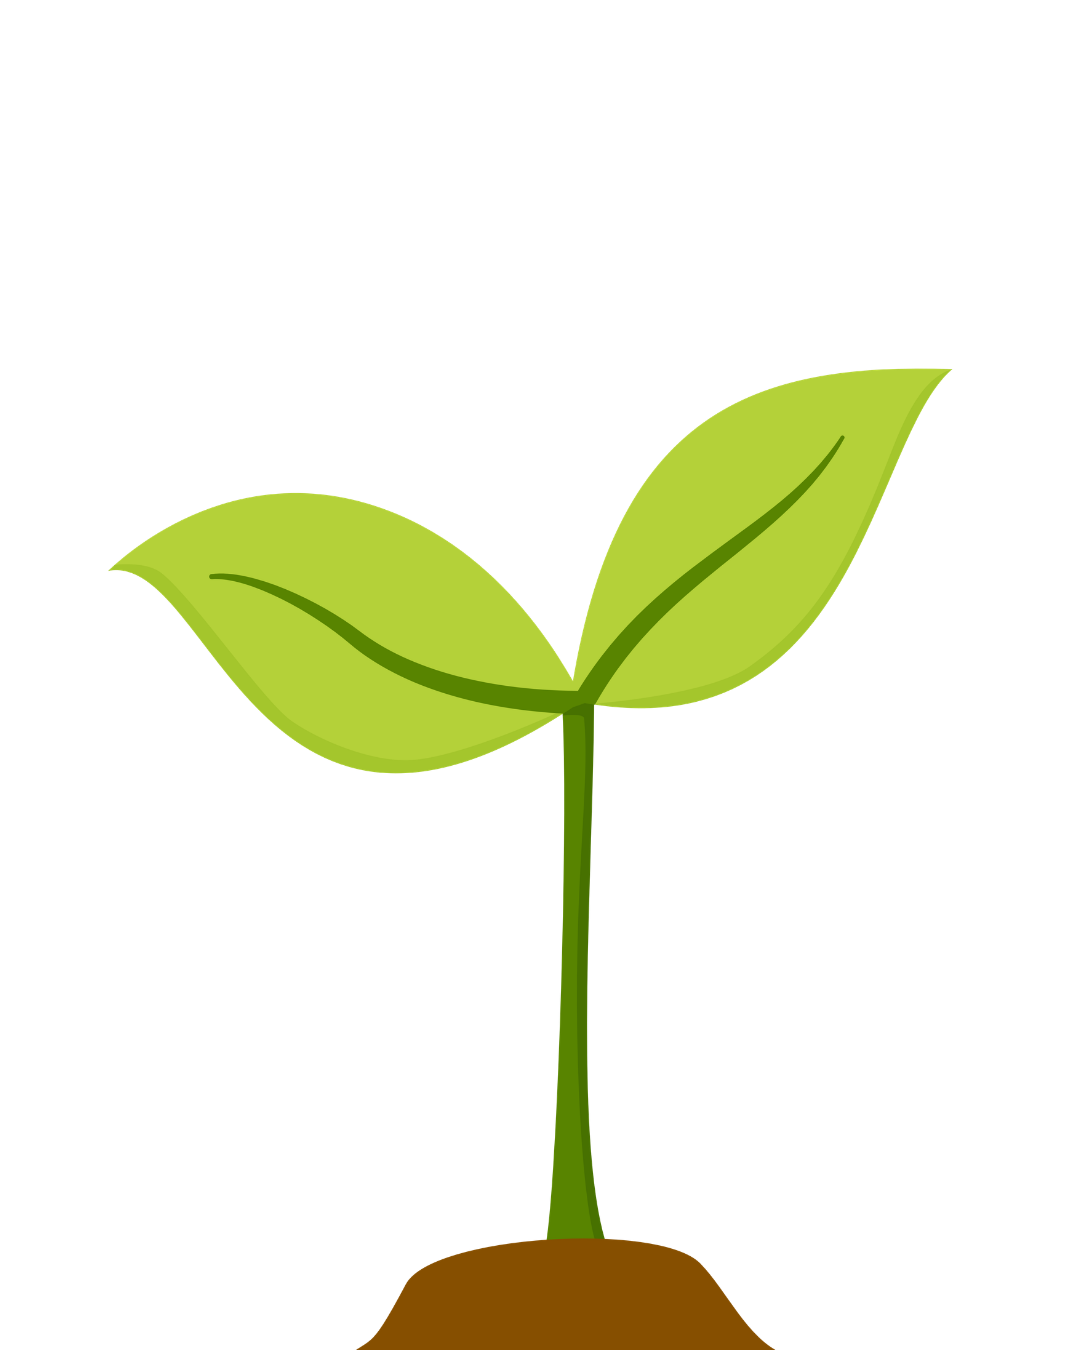
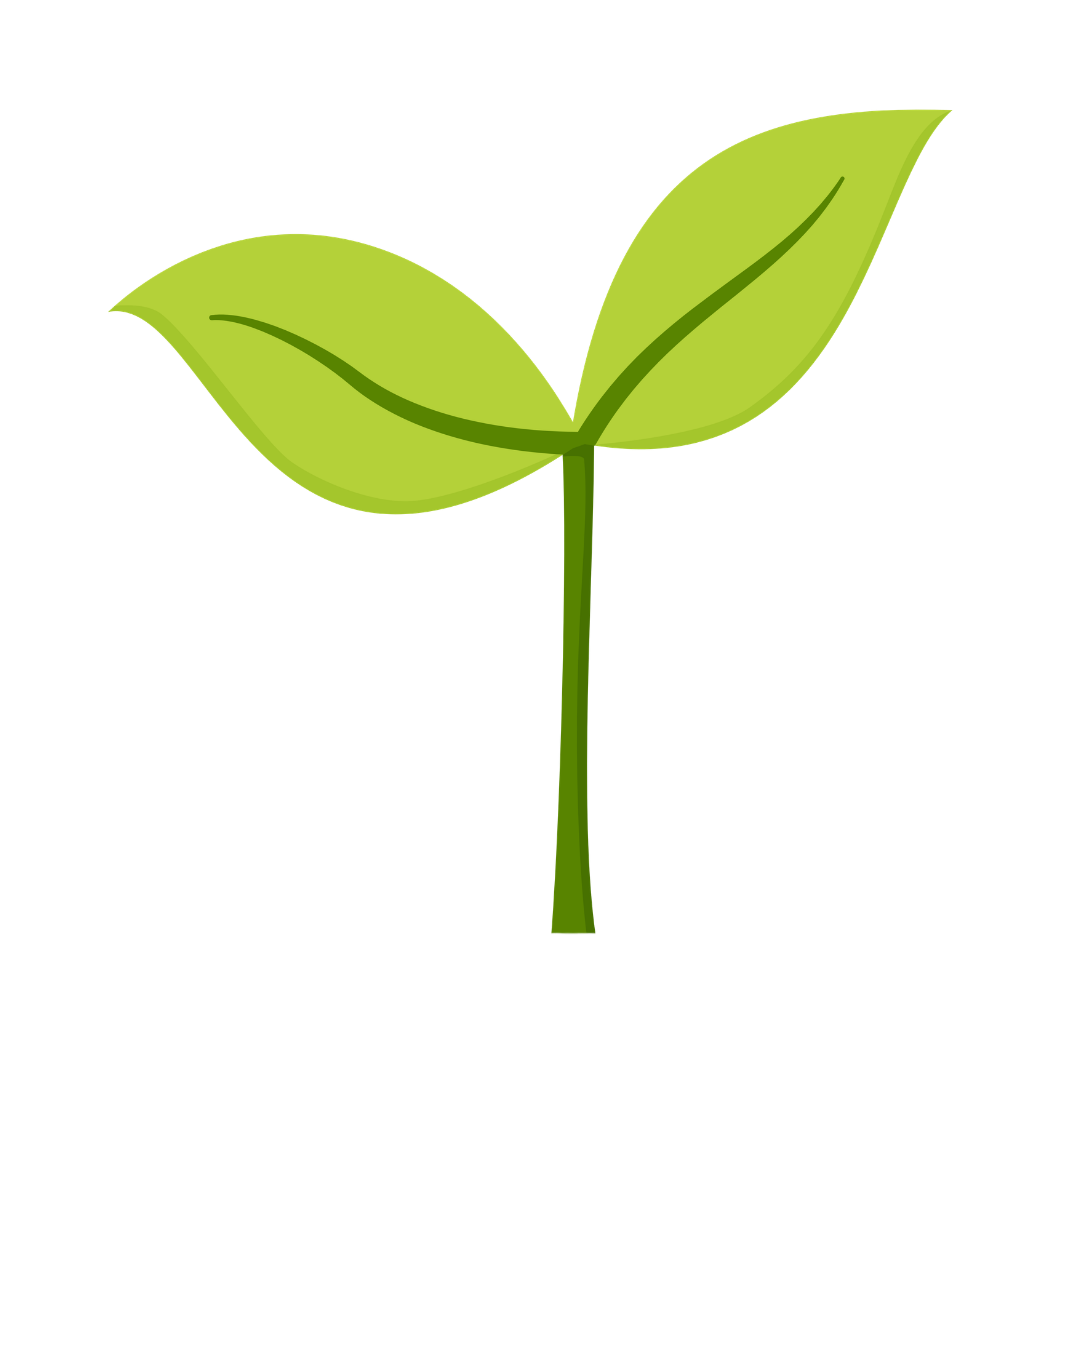
final project updates

Changed region(s): [[0.0917, 0.0622, 0.8861, 1.0]]

diff --git a/src/pages/Memories.jsx b/src/pages/Memories.jsx
@@ -322,8 +322,8 @@ useEffect(() => {
         className="
             absolute
 
-            bottom-[80px]
-            left-[49.6%]
+            bottom-[60px]
+            left-[49.5%]
             -translate-x-1/2
 
             w-[250px]
